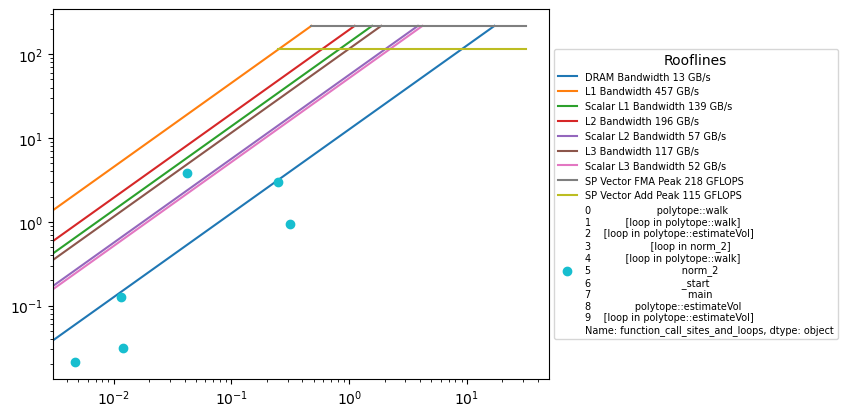
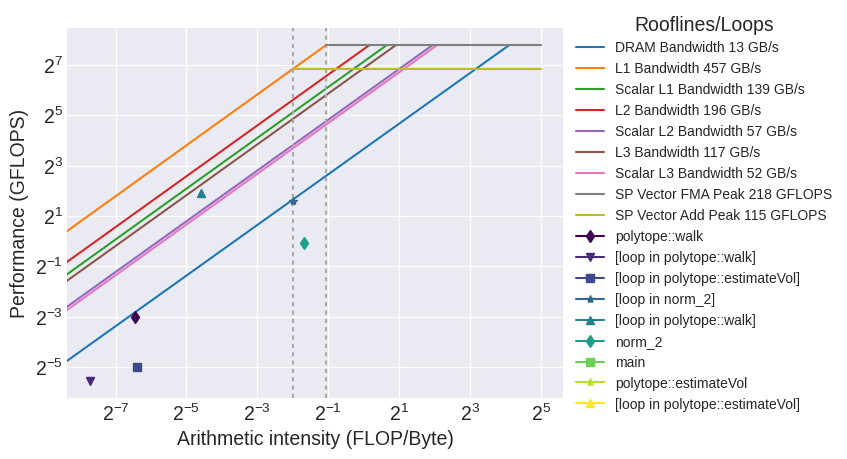
Better roofline plotting

diff --git a/plot_roofline.py b/plot_roofline.py
@@ -1,6 +1,11 @@
 # Adapted from intel advisor api examples https://www.intel.com/content/www/us/en/developer/articles/training/how-to-use-the-intel-advisor-python-api.html
 # Copyright (C) 2017 Intel Corporation
 
+import matplotlib.cm as cm
+import click
+import seaborn as sns
+from matplotlib.ticker import ScalarFormatter
+import matplotlib.pyplot as plt
 import math
 import sys
 
@@ -9,14 +14,17 @@ import numpy as np
 import pandas as pd
 
 matplotlib.use("Agg")
-import matplotlib.pyplot as plt
-import seaborn as sns
-import click
+
+
 # This style requires $DISPLAY available.
 # Use it instead of matplotlib.use('Agg') if you have GUI environment
 # matplotlib.style.use('ggplot')
 
 pd.options.display.max_rows = 20
+plt.style.use('seaborn-darkgrid')
+plt.figure(dpi=200)
+# Set the default font size
+plt.rcParams.update({'font.size': 14})
 
 try:
 
@@ -35,9 +43,11 @@ except ImportError:
 if len(sys.argv) < 2:
     print('Usage: "python {} path_to_project_dir"'.format(__file__))
     sys.exit(2)
-    
+
 
 @click.command()
+@click.option('--name', '-n', required=True, help='The name of the generated'
+              'roofline png.')
 @click.option('--project', '-o', required=True,
               help='The directory of the Intel Advisor project containing '
                    'a roofline analysis.')
@@ -48,20 +58,9 @@ if len(sys.argv) < 2:
                    'socket).')
 @click.option('--precision', type=click.Choice(['SP', 'DP', 'all']),
               help='Arithmetic precision.', default='SP')
-@click.option('--mode', '-m', type=click.Choice(['overview', 'top-loops', 'all']),
-              default='overview', required=True,
-              help='overview: Display a single point with the total GFLOPS and '
-                   'arithmetic intensity of the program.\n top-loops: Display all the '
-                   'top time consuming loops within one order of magnitude (x10) from '
-                   'the most time consuming loop.')
-@click.option('--th', default=0, help='Percentage threshold (e.g. 95) such that loops '
-                                      'under this value in execution time consumed will '
-                                      'not be displayed/collected.'
-                                      'Only valid for --top-loops.')
 # Open the Advisor Project and load the data.
-def roofline(project, scale, precision, mode, th):
+def roofline(name, project, scale, precision):
     project = advisor.open_project(project)
-
     # Open the Advisor Project and load the data.
     data = project.load(advisor.ALL)
     def quotes(value):
@@ -75,7 +74,6 @@ def roofline(project, scale, precision, mode, th):
         # Process the header.
         if idx == 0:
             print(",".join([quotes(key) for key in entry]))
-
         # Process the entires.
         print(",".join([quotes(entry[key]) for key in entry]))
     # Access the entries and roof data from the survey data.
@@ -84,12 +82,12 @@ def roofline(project, scale, precision, mode, th):
 
     # Get the entries into a data frame.
     df = pd.DataFrame(rows).replace("", np.nan)
-    print(df[["self_ai", "self_gflops"]].dropna())
-    print(df.head(5))
+    #print(df[["self_ai", "self_gflops"]].dropna())
+    #print(df.head(5))
     df.self_ai = df.self_ai.astype(float)
     df.self_gflops = df.self_gflops.astype(float)
-    #print(df.function)
-    print(df.function_call_sites_and_loops)
+    # print(df.function)
+    #print(df.function_call_sites_and_loops)
 
     # Provision plot and determine maxes.
     df.self_ai = df.self_ai.astype(float)
@@ -100,15 +98,17 @@ def roofline(project, scale, precision, mode, th):
     loop_total_time = df.self_time.sum()
     df['percent_weight'] = df.self_time / loop_total_time * 100
 
-    fig, ax = plt.subplots()
-    key = lambda roof: roof.bandwidth if 'bandwidth' not in roof.name.lower() else 0
+    _, ax = plt.subplots()
+    def key(roof): return roof.bandwidth if 'bandwidth' not in roof.name.lower() else 0
     max_compute_roof = max(roofs, key=key)
-    max_compute_bandwidth = max_compute_roof.bandwidth / math.pow(10, 9)  # as GByte/s
+    max_compute_bandwidth = max_compute_roof.bandwidth / \
+        math.pow(10, 9)  # as GByte/s
     max_compute_bandwidth /= scale  # scale down as requested by the user
 
-    key = lambda roof: roof.bandwidth if 'bandwidth' in roof.name.lower() else 0
-    max_memory_roof = max(roofs, key=key)
-    max_memory_bandwidth = max_memory_roof.bandwidth / math.pow(10, 9)  # as GByte/s
+    def key2(roof): return roof.bandwidth if 'bandwidth' in roof.name.lower() else 0
+    max_memory_roof = max(roofs, key=key2)
+    max_memory_bandwidth = max_memory_roof.bandwidth / \
+        math.pow(10, 9)  # as GByte/s
     max_memory_bandwidth /= scale  # scale down as requested by the user
 
     # Parameters to center the chart
@@ -116,9 +116,6 @@ def roofline(project, scale, precision, mode, th):
     ai_max = 2**5
     gflops_min = 2**0
     width = ai_max
-
-    # Declare the dictionary that will hold the JSON information
-    roofline_data = {}
 
     # Declare the two types of rooflines dictionaries
     memory_roofs = []
@@ -146,20 +143,26 @@ def roofline(project, scale, precision, mode, th):
                 y1, y2 = bandwidth, bandwidth
                 label = '{} {:.0f} GFLOPS'.format(roof.name, bandwidth)
                 ax.plot([x1, x2], [y1, y2], '-', label=label)
+                plt.axvline(x=x1, color='darkgrey', ymax=y2, linestyle=(0, (2, 2)))
                 compute_roofs.append(((x1, x2), (y1, y2)))
-    palette = sns.color_palette("Paired")
     # Draw points using the same axis.
-    ax.set_xscale("log")
-    ax.set_yscale("log")
-    # color=palette[df.index.astype(int)]
-    ax.plot(df.self_ai, df.self_gflops, "o", label=df.function_call_sites_and_loops)
+    ax.set_xscale('log', base=2)
+    ax.set_yscale('log', base=2)
+    ax.set_xlabel('Arithmetic intensity (FLOP/Byte)')
+    ax.set_ylabel('Performance (GFLOPS)')
+
+    colors = cm.viridis(np.linspace(0, 1, len(df.self_ai)))
+    markers = ["d", "v", "s", "*", "^", "d", "v", "s", "*", "^"]
+    for i in range(len(df.self_ai)):
+        ax.plot(df.self_ai[i], df.self_gflops[i], marker=markers[i],
+                color=colors[i], label=df.function_call_sites_and_loops[i])
     # Set the legend of the plot.
     legend = plt.legend(loc='center left', bbox_to_anchor=(1, 0.5),
-                            prop={'size': 7}, title='Rooflines')
+                            prop={'size': 10}, title='Rooflines/Loops')
     # Save the plot in PNG format.
-    plt.savefig("roofline_plots/roofline.png", bbox_inches='tight')
+    plt.savefig('roofline_plots/%s.png' %
+                name, bbox_extra_artists=(legend,), bbox_inches='tight')
 
-    print("Roofline chart has been generated and saved into roofline.png and roofline.svg files in the current directory.")
-    
+
 if __name__ == '__main__':
     roofline()

diff --git a/utils.py b/utils.py
@@ -115,7 +115,31 @@ def create_executables(branches):
     except Exception:
         print("Warning! Could not create executables")
         traceback.print_exc()
-       
+
+
+def init_adivor_vars():
+    """
+    Initializes the variables for the Intel Advisor by calling the advisor-vars.sh script.
+
+    This function calls the specified command through the subprocess module.
+    
+    Args:
+        None
+    
+    Example Usage:
+        init_adivor_vars() # initializes the advisor vars
+        
+    Raises:
+        OSError : An error occurred while executing the command.
+    """
+    try:
+        #subprocess.Popen("/bin/sh", "/opt/intel/oneapi/advisor/latest/advisor-vars.sh")
+        #subprocess.Popen("/bin/sh", "/opt/intel/oneapi/advisor/latest/advixe-vars.sh")
+        subprocess.call(["bash", "source_advisor.sh"])
+    except Exception:
+        print("Warning! Could not init advisor variables")
+        traceback.print_exc()
+
 
 def load_data(path):
     """
